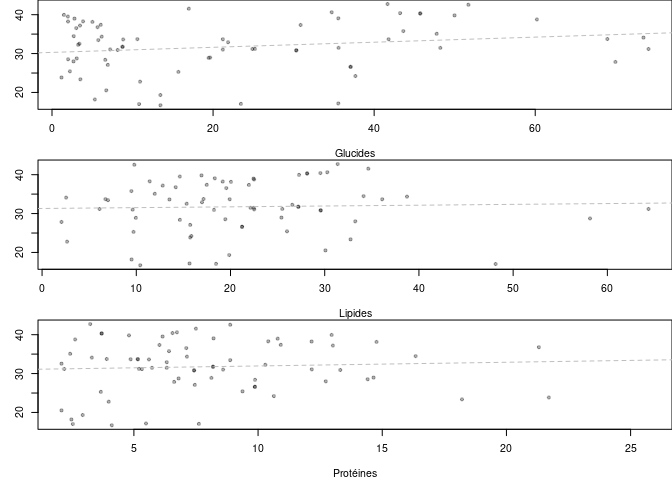
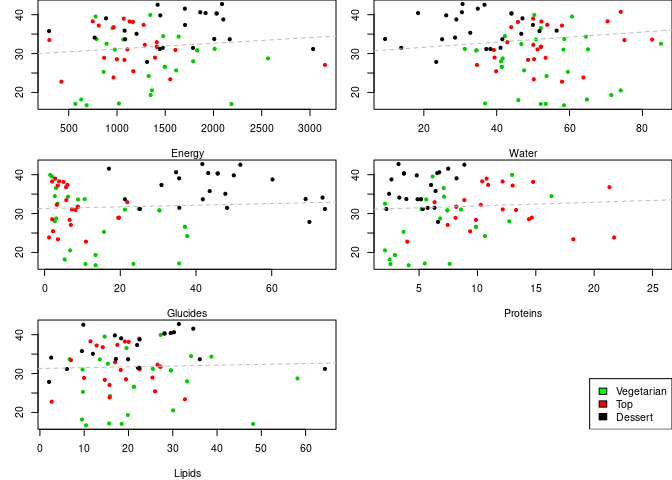
new plots

diff --git a/results/README.md b/results/README.md
@@ -348,13 +348,25 @@ Combining recipes
 
 ### Plot wheighted phylogenetic diversity by nutritional values
 
-    par(mfrow=c(3,1), mar=c(4,3,0,0))
-    plot(all_simple$Glucides, all_simple$Weighted_phylogenetic_diversity, pch=20, col=rgb(0,0,0, 0.3), ylab="Diversité phylogénétique pondérée", main="", xlab="Glucides")
+    par(mfrow=c(3,2), mar=c(4,3,0,0))
+
+    plot(all_simple$Energy, all_simple$Weighted_phylogenetic_diversity, pch=20, col=factor(all_simple$type), main="", xlab="Energy")
+    abline(lm(all_simple$Weighted_phylogenetic_diversity ~ all_simple$Energy), lty=2, col="grey")
+
+    plot(all_simple$Water, all_simple$Weighted_phylogenetic_diversity, pch=20, col=factor(all_simple$type), main="", xlab="Water")
     abline(lm(all_simple$Weighted_phylogenetic_diversity ~ all_simple$Glucides), lty=2, col="grey")
-    plot(all_simple$Lipids, all_simple$Weighted_phylogenetic_diversity, pch=20, col=rgb(0,0,0, 0.3), ylab="Diversité phylogénétique pondérée", main="", xlab="Lipides")
+
+    plot(all_simple$Glucides, all_simple$Weighted_phylogenetic_diversity, pch=20, col=factor(all_simple$type), main="", xlab="Glucides")
     abline(lm(all_simple$Weighted_phylogenetic_diversity ~ all_simple$Lipids), lty=2, col="grey")
-    plot(all_simple$Proteins, all_simple$Weighted_phylogenetic_diversity, pch=20, col=rgb(0,0,0, 0.3), ylab="Diversité phylogénétique pondérée", main="", xlab="Protéines")
+
+    plot(all_simple$Proteins, all_simple$Weighted_phylogenetic_diversity, pch=20, col=factor(all_simple$type), ylab="Diversité phylogénétique pondérée", main="", xlab="Proteins")
     abline(lm(all_simple$Weighted_phylogenetic_diversity ~ all_simple$Proteins), lty=2, col="grey")
+
+    plot(all_simple$Lipids, all_simple$Weighted_phylogenetic_diversity, pch=20, col=factor(all_simple$type), main="", xlab="Lipids")
+    abline(lm(all_simple$Weighted_phylogenetic_diversity ~ all_simple$Lipids), lty=2, col="grey")
+
+    plot.new()
+    legend(x="bottomright", legend=unique(all_simple$type), fill=c("green", "red", "black"))
 
 ![](New_recipes_files/figure-markdown_strict/unnamed-chunk-19-1.png)
 
